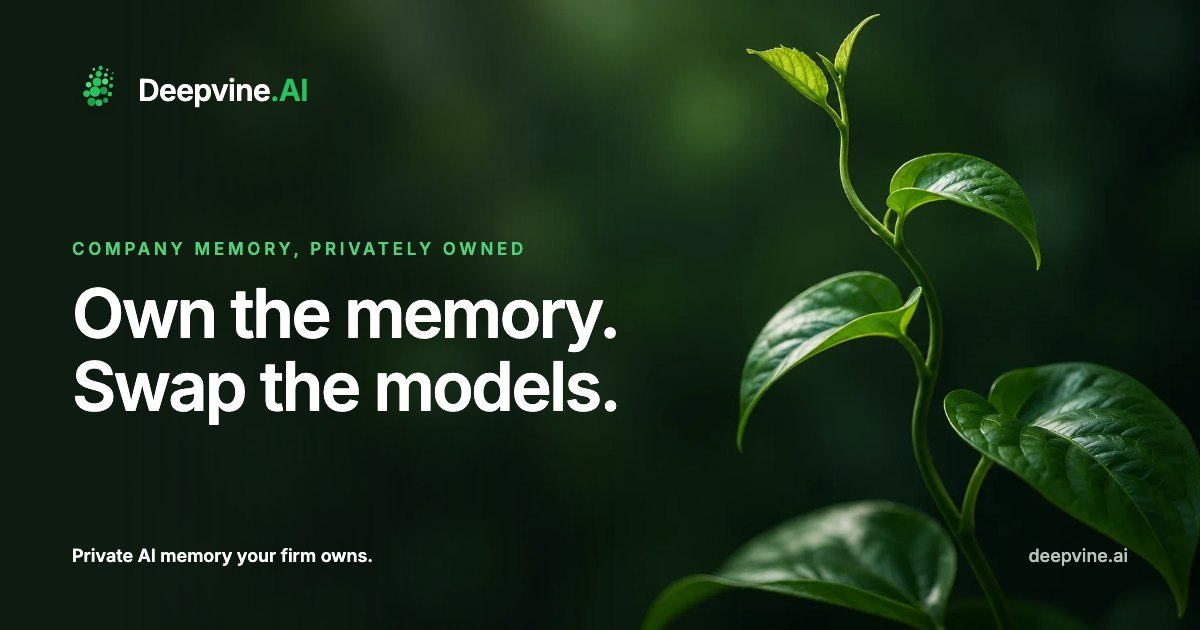
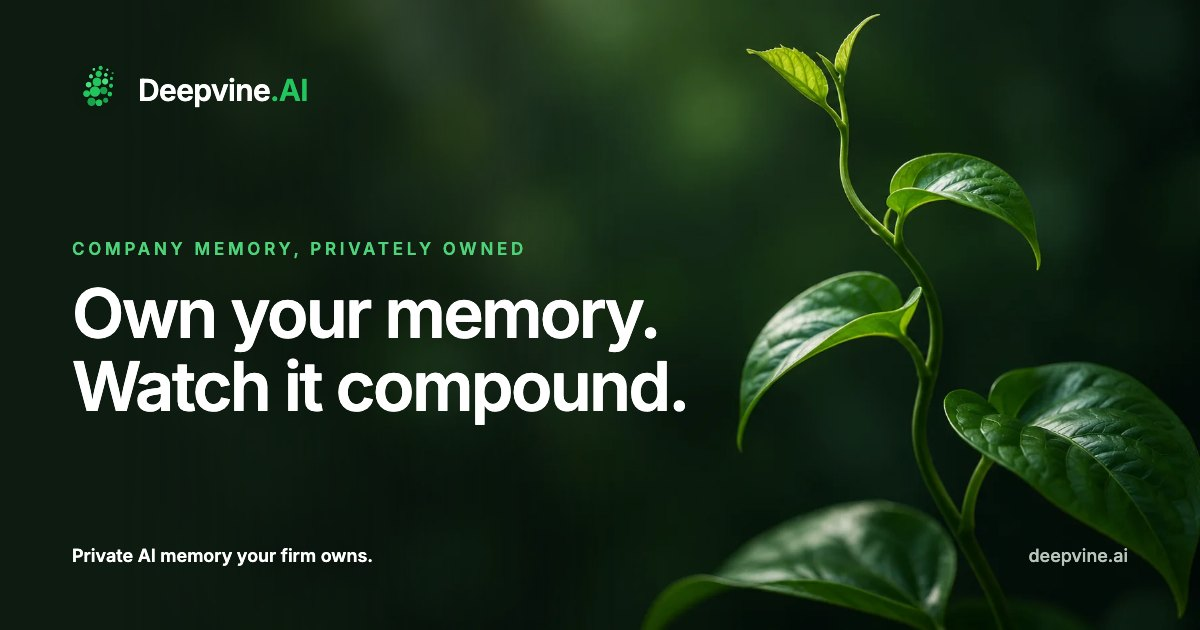
Homepage headline: "Own your memory. Watch it compound."
Updates the hero, the Organization slogan, the homepage share title and
its social image, and resizes the hero headline so the longer line holds
two lines on desktop and four on phones.

Changed region(s): [[0.0617, 0.4524, 0.5858, 0.6635]]

diff --git a/src/styles/site.css b/src/styles/site.css
@@ -126,7 +126,7 @@ h1,h2,h3{font-weight:600;letter-spacing:-.035em;line-height:1.05;color:var(--ink
   /* stop short of the device, whose left edge sits ~51% across the photo */
   max-width:calc(51vw - (100vw - min(100vw,var(--container))) / 2 - var(--gutter) - 24px);
 }
-.hero h1{font-size:clamp(44px,4.9vw,70px);margin-bottom:24px}
+.hero h1{font-size:clamp(42px,4.3vw,60px);letter-spacing:-.04em;margin-bottom:24px}
 .hero .lead{max-width:none;margin-bottom:30px}
 .pills{display:flex;flex-wrap:wrap;gap:10px;margin-bottom:32px}
 .pill{
@@ -277,7 +277,7 @@ h1,h2,h3{font-weight:600;letter-spacing:-.035em;line-height:1.05;color:var(--ink
     max-width:calc(50% - var(--gutter));
   }
   .hero__title .eyebrow{margin-bottom:12px;line-height:1.6;max-width:13.5em}  /* breaks after "memory," */
-  .hero__title h1{font-size:clamp(34px,6.4vw,40px);margin:0}
+  .hero__title h1{font-size:clamp(26px,7.4vw,40px);margin:0;overflow-wrap:normal;hyphens:manual}
   .hero__caption{display:none}
 
   .pillars{padding:64px 0}
@@ -337,9 +337,7 @@ h1,h2,h3{font-weight:600;letter-spacing:-.035em;line-height:1.05;color:var(--ink
   .nav__right{gap:2px}
   .nav__right .btn--sm{padding:10px 11px;font-size:13px;gap:6px}
   .nav__burger{width:36px}
-  .hero__title h1{font-size:30px}
   .hero__title .eyebrow{font-size:11px}
-  h1{font-size:34px!important}
   .phero h1,.hiw-hero h1,.post__head h1{font-size:32px!important}
 }
 

diff --git a/src/data/schema.ts b/src/data/schema.ts
@@ -35,7 +35,7 @@ export const organization = {
   logo: { '@type': 'ImageObject', '@id': LOGO_ID, url: `${SITE}/web-app-manifest-512x512.png`, width: 512, height: 512, caption: BRAND },
   image: { '@id': LOGO_ID },
   description: DESCRIPTION,
-  slogan: 'Own the memory. Swap the models.',
+  slogan: 'Own your memory. Watch it compound.',
   email: 'info@deepvine.ai',
   foundingDate: '2025',
   founder: [{ '@id': MITCH_ID }, { '@id': ADAM_ID }],
